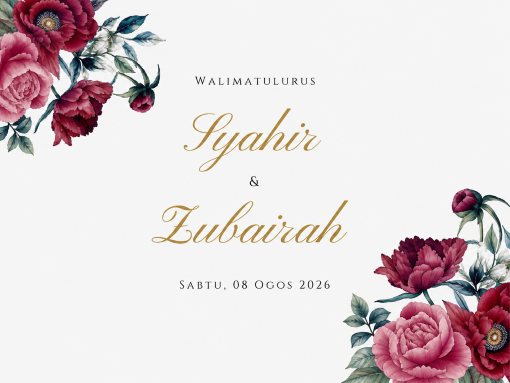
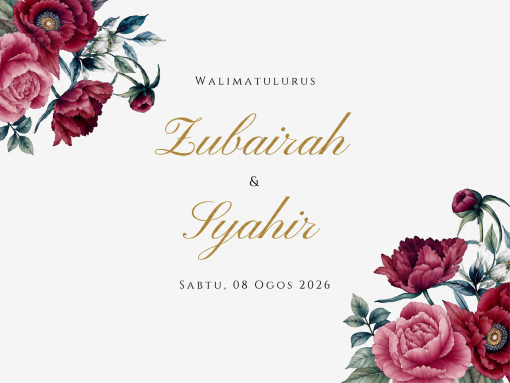
change path

Changed region(s): [[0.2941, 0.2872, 0.6765, 0.4595], [0.2941, 0.517, 0.6765, 0.6893], [0.6765, 0.2872, 0.7059, 0.3159]]

diff --git a/index.html b/index.html
@@ -5,17 +5,17 @@
   <meta name="viewport" content="width=device-width, initial-scale=1.0">
   <meta name="description" content="Tekan pautan untuk lihat jemputan">
   <meta property="og:type" content="website">
-  <meta property="og:url" content="https://syahirxzubairah.com/">
+  <meta property="og:url" content="https://syahirxzubairah.com/bride-invitation/">
   <meta property="og:title" content="Walimatulurus Zubairah & Syahir | Sabtu 8 Ogos 2026">
   <meta property="og:description" content="Tekan pautan untuk lihat jemputan.">
-  <meta property="og:image" content="https://syahirxzubairah.com/og-image.png">
-  <meta property="og:image:secure_url" content="https://syahirxzubairah.com/og-image.png">
+  <meta property="og:image" content="https://syahirxzubairah.com/bride-invitation/og-image.png">
+  <meta property="og:image:secure_url" content="https://syahirxzubairah.com/bride-invitation/og-image.png">
   <meta property="og:image:type" content="image/png">
   <meta property="og:site_name" content="Walimatulurus Zubairah & Syahir">
   <meta name="twitter:card" content="summary_large_image">
   <meta name="twitter:title" content="Walimatulurus Zubairah & Syahir">
   <meta name="twitter:description" content="Jemputan majlis walimatulurus Zubairah dan Syahir.">
-  <meta name="twitter:image" content="https://syahirxzubairah.com/og-image.png">
+  <meta name="twitter:image" content="https://syahirxzubairah.com/bride-invitation/og-image.png">
   <title>Walimatulurus Zubairah & Syahir</title>
   <link rel="icon" type="image/svg+xml" href="/favicon.svg">
   <link rel="preconnect" href="https://fonts.googleapis.com">

diff --git a/vite.config.js b/vite.config.js
@@ -1,7 +1,7 @@
 import { defineConfig } from "vite";
 
 export default defineConfig({
-  base: "./",
+  base: "/bride-invitation/",
   build: {
     outDir: "dist",
   },
